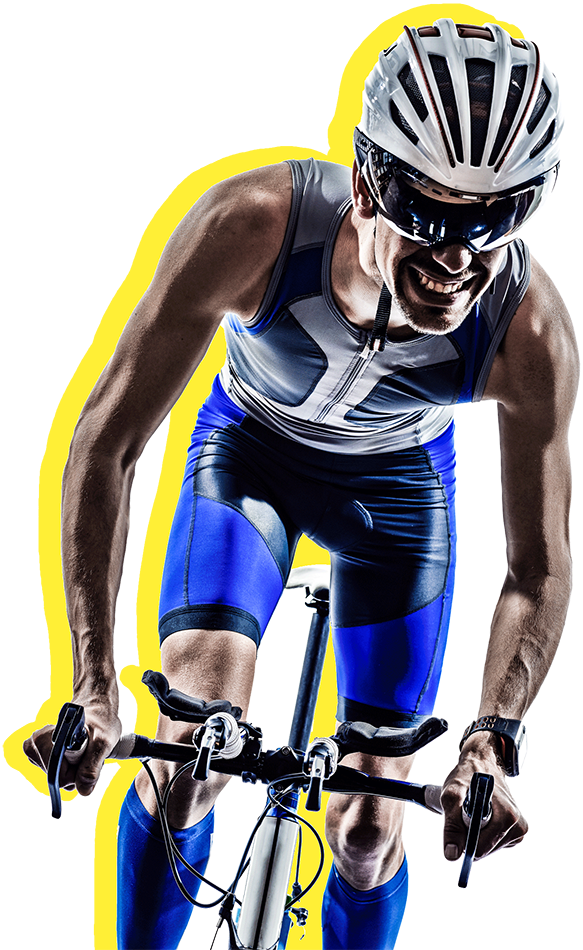
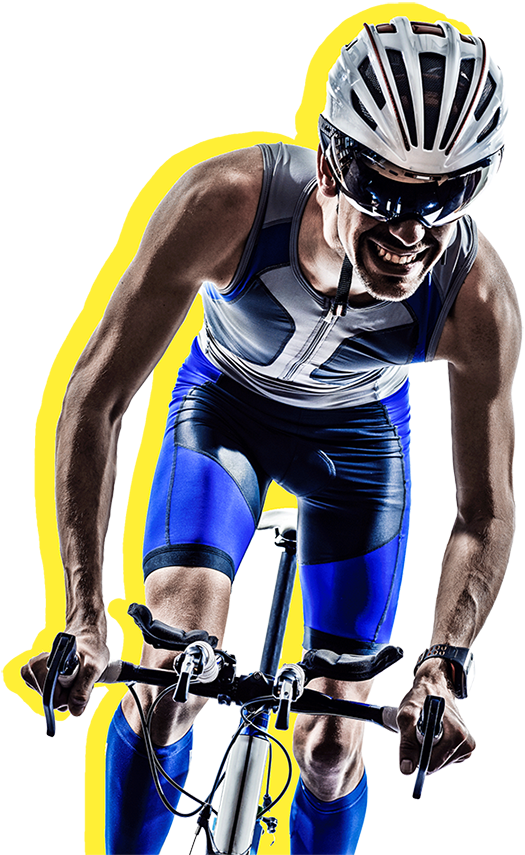
no message

diff --git a/src/sass/page/_index.scss b/src/sass/page/_index.scss
@@ -9,7 +9,6 @@
 video {
   object-fit: cover; 
   position: absolute;
-  height: 100vh;
   width: 100%;
   top: 0;
   left: 0;
@@ -495,7 +494,7 @@ video {
     /* 開始製作我的個人計畫 */
     .training__plan{
     display: block;
-    height: 1470px;
+    height: 1400px;
     width: 100%;
     position: relative;
     background-color: #00429D;
@@ -517,14 +516,14 @@ video {
   .training__plan__photo{
     position: absolute;
     top:-45px;
-    left: 15px;
+    left: 50px;
   }
   
     
    /* 這裡是放計畫表的黃色塊 */	
     .training__plan__container{
     position: absolute;  
-    top: 60%;           
+    top: 55%;           
     left: 0;        
     right: 0;
     margin: auto; 
@@ -532,8 +531,8 @@ video {
 
     .plan video{
       object-fit: cover;
-      height: 100vh;
       width: 100%;
+      border: 5px solid #FFEF36;
 
     }
   

diff --git a/index.html b/index.html
@@ -220,10 +220,11 @@
 
 
       <!-- 這裡是放計畫表的黃色塊 -->
-      <div class="training__plan__container" style="background-color: #FFEF36; width: 80%;">
-         <!--暫時放png之後改成gif操作影片 RWD就讓父元素container變化-->
+  
+      <div class="training__plan__container" style="width: 80%;">
          <video src="https://www.dropbox.com/s/k5rryvtb1tjytgy/Triclub.mp4?raw=1" autoplay loop playsinline muted></video>
       </div>
+
 
    </section>
    
